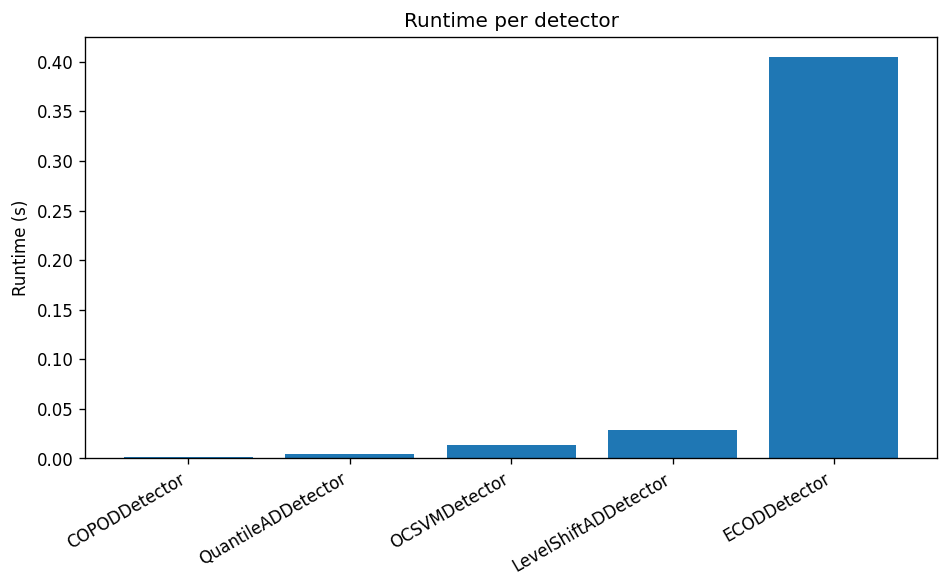
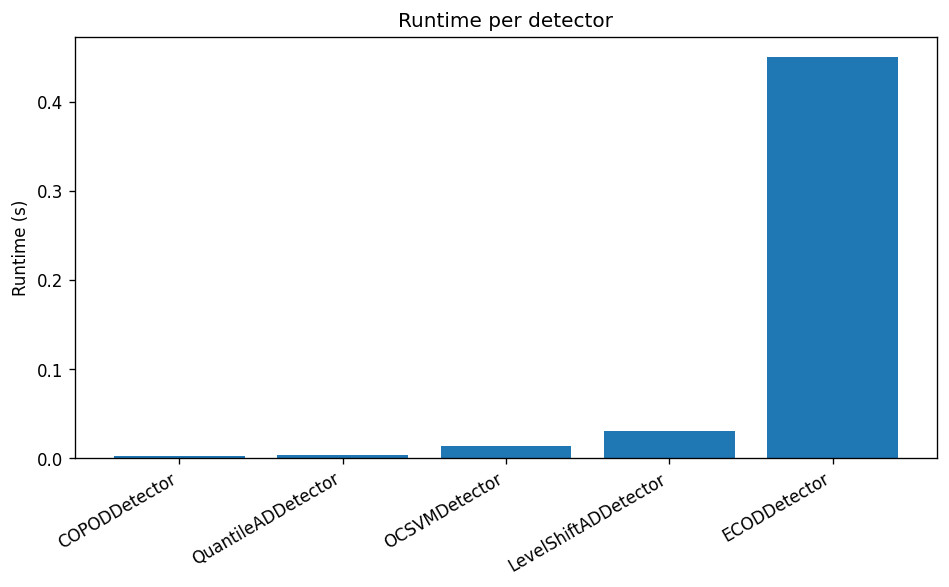
Add script to run all benchmark modes

diff --git a/data_science/run_all_benchmarks.py b/data_science/run_all_benchmarks.py
@@ -1,0 +1,107 @@
+"""
+Run all benchmark modes (synthetic, train/test, NAB) in one command.
+
+Usage:
+    python run_all_benchmarks.py
+    python run_all_benchmarks.py --skip-nab
+    python run_all_benchmarks.py --skip-train-test --skip-nab
+"""
+
+import argparse
+import sys
+import traceback
+
+from pipeline import (
+    build_detectors,
+    run_pipeline,
+    run_train_test_benchmark,
+)
+
+
+SYNTHETIC_CSV = "datasets/complex.csv"
+
+NAB_CSV_URL = (
+    "https://raw.githubusercontent.com/numenta/NAB/master/data/"
+    "realKnownCause/machine_temperature_system_failure.csv"
+)
+NAB_LABELS_URL = (
+    "https://raw.githubusercontent.com/numenta/NAB/master/labels/combined_windows.json"
+)
+NAB_DATASET_KEY = "realKnownCause/machine_temperature_system_failure.csv"
+
+
+def _header(title):
+    line = "=" * 60
+    print(f"\n{line}\n{title}\n{line}")
+
+
+def run_synthetic():
+    _header("Running synthetic benchmark")
+    run_pipeline(
+        SYNTHETIC_CSV,
+        benchmark_mode=True,
+        label_source="synthetic",
+    )
+
+
+def run_train_test():
+    _header("Running train/test benchmark")
+    run_train_test_benchmark(
+        SYNTHETIC_CSV,
+        build_detectors(),
+    )
+
+
+def run_nab():
+    _header("Running NAB benchmark")
+    run_pipeline(
+        NAB_CSV_URL,
+        benchmark_mode=True,
+        label_source="nab",
+        nab_label_file=NAB_LABELS_URL,
+        nab_dataset_key=NAB_DATASET_KEY,
+    )
+
+
+def parse_args(argv):
+    parser = argparse.ArgumentParser(
+        description="Run all benchmark modes and save outputs to per-mode folders."
+    )
+    parser.add_argument("--skip-synthetic", action="store_true",
+                        help="Skip the synthetic benchmark.")
+    parser.add_argument("--skip-train-test", action="store_true",
+                        help="Skip the train/test benchmark.")
+    parser.add_argument("--skip-nab", action="store_true",
+                        help="Skip the NAB benchmark.")
+    return parser.parse_args(argv)
+
+
+def main(argv):
+    args = parse_args(argv)
+
+    steps = []
+    if not args.skip_synthetic:
+        steps.append(("synthetic benchmark", run_synthetic))
+    if not args.skip_train_test:
+        steps.append(("train/test benchmark", run_train_test))
+    if not args.skip_nab:
+        steps.append(("NAB benchmark", run_nab))
+
+    if not steps:
+        print("[run_all] All benchmark groups skipped - nothing to do.")
+        return 0
+
+    for name, fn in steps:
+        try:
+            fn()
+        except Exception as e:
+            print(f"\n[run_all] ERROR while running {name}: {e}")
+            traceback.print_exc()
+            return 1
+
+    _header("Benchmark suite complete")
+    return 0
+
+
+if __name__ == "__main__":
+    sys.exit(main(sys.argv[1:]))